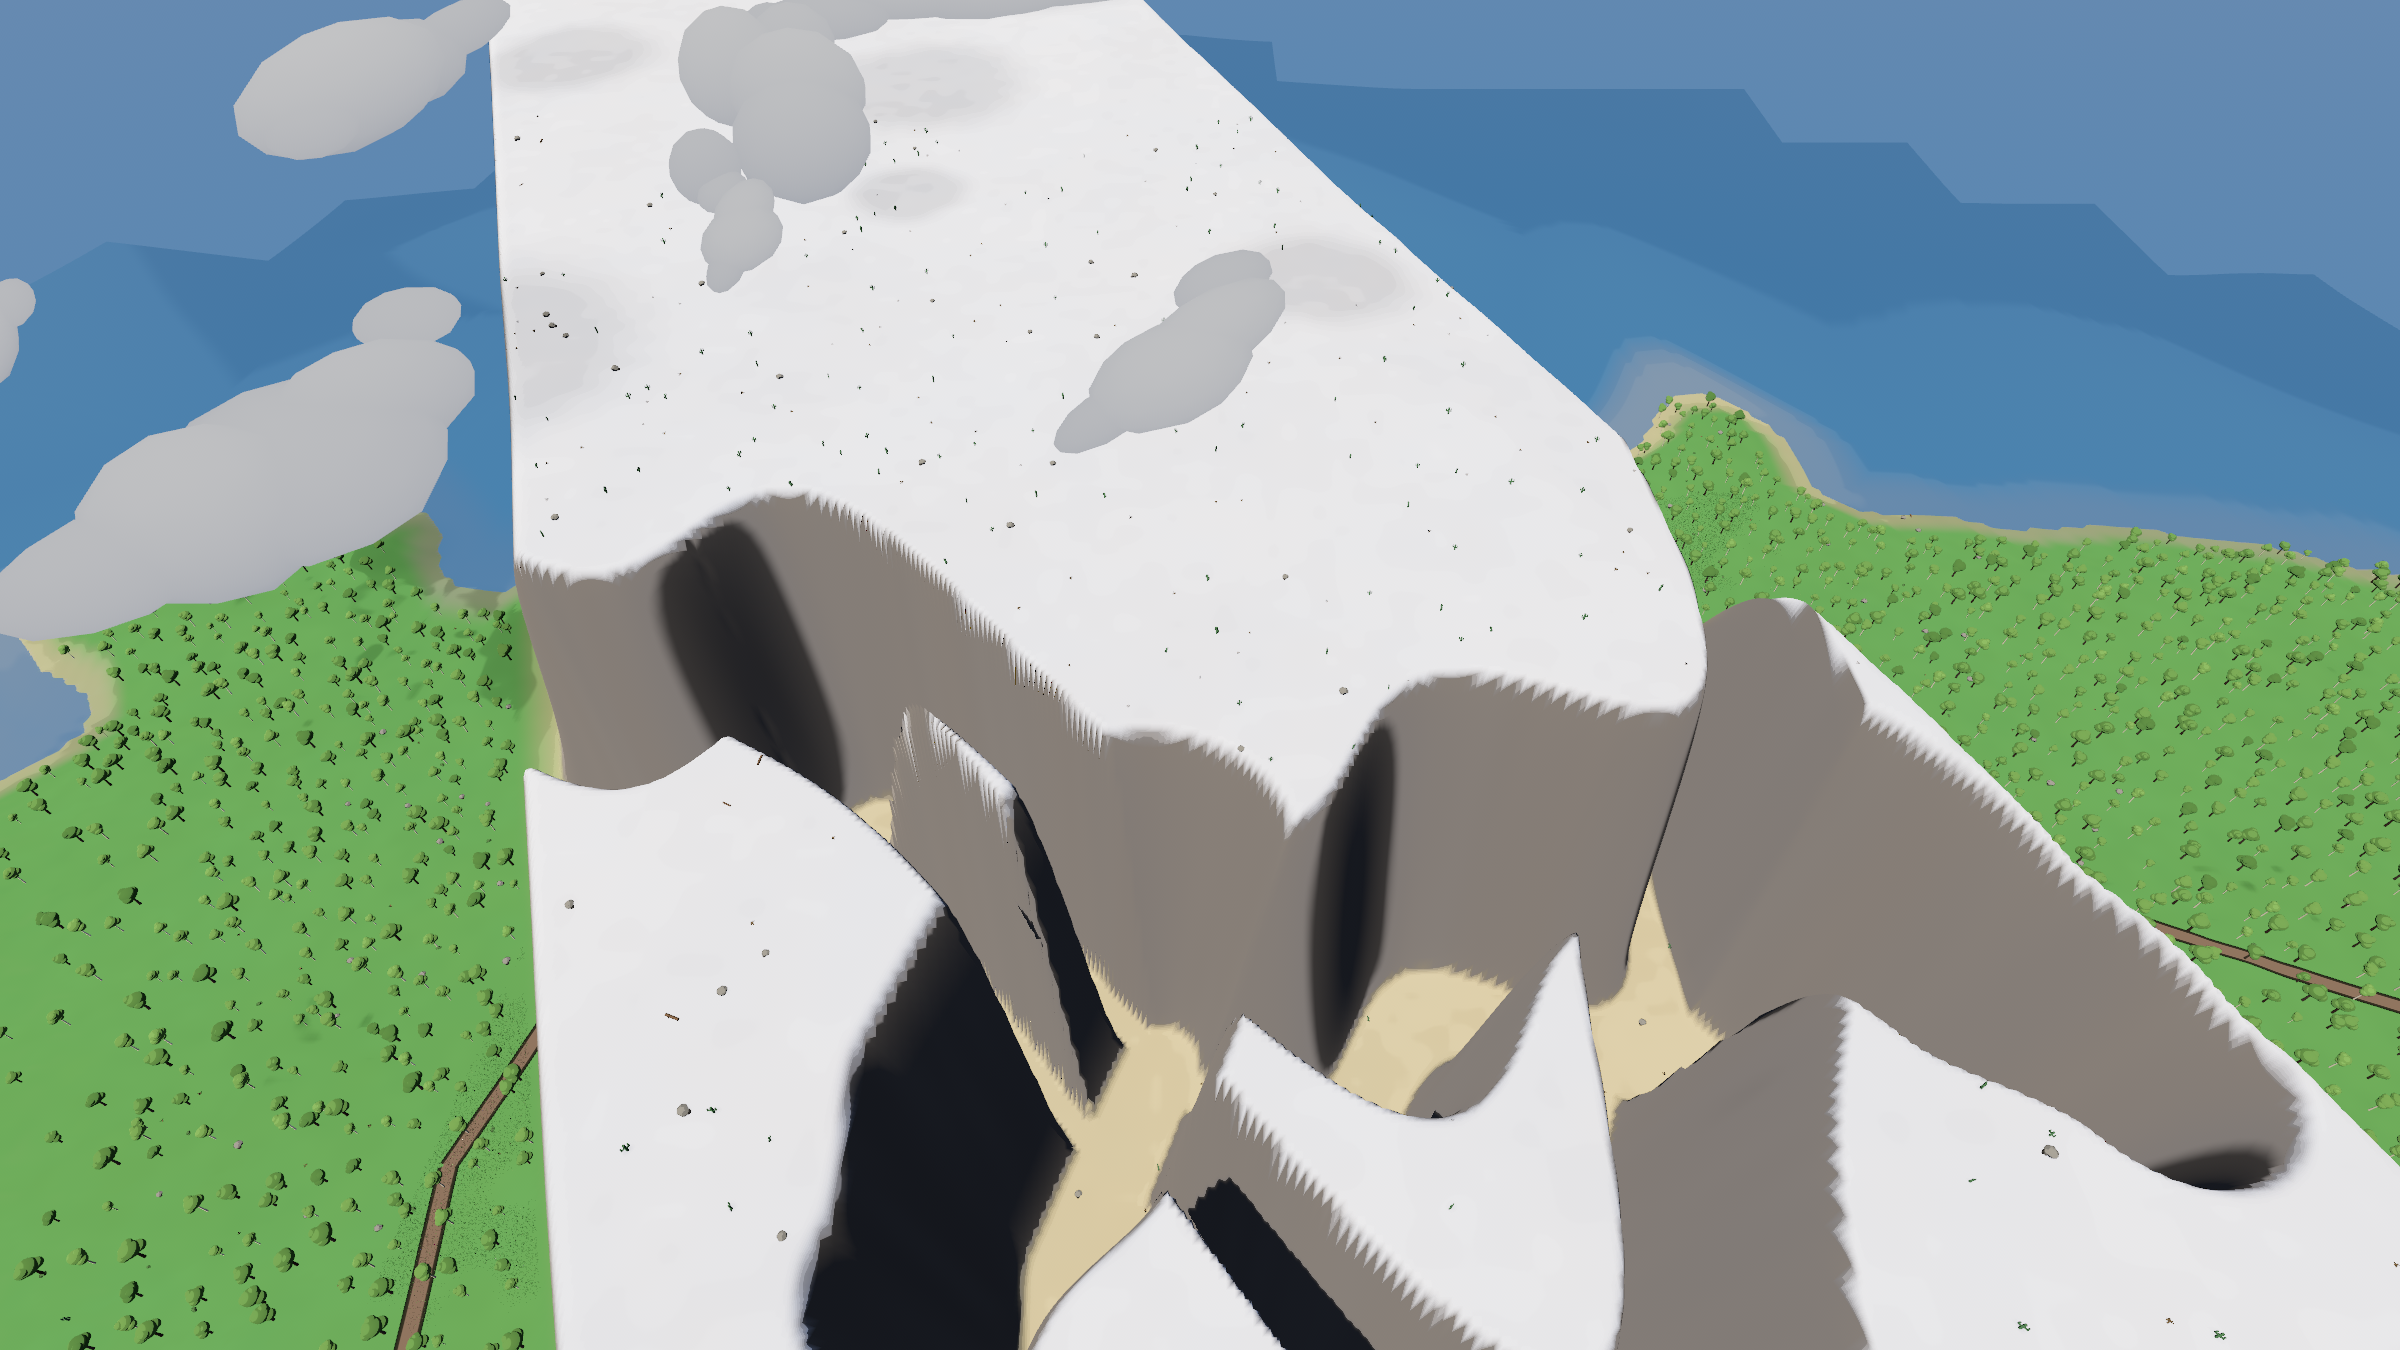
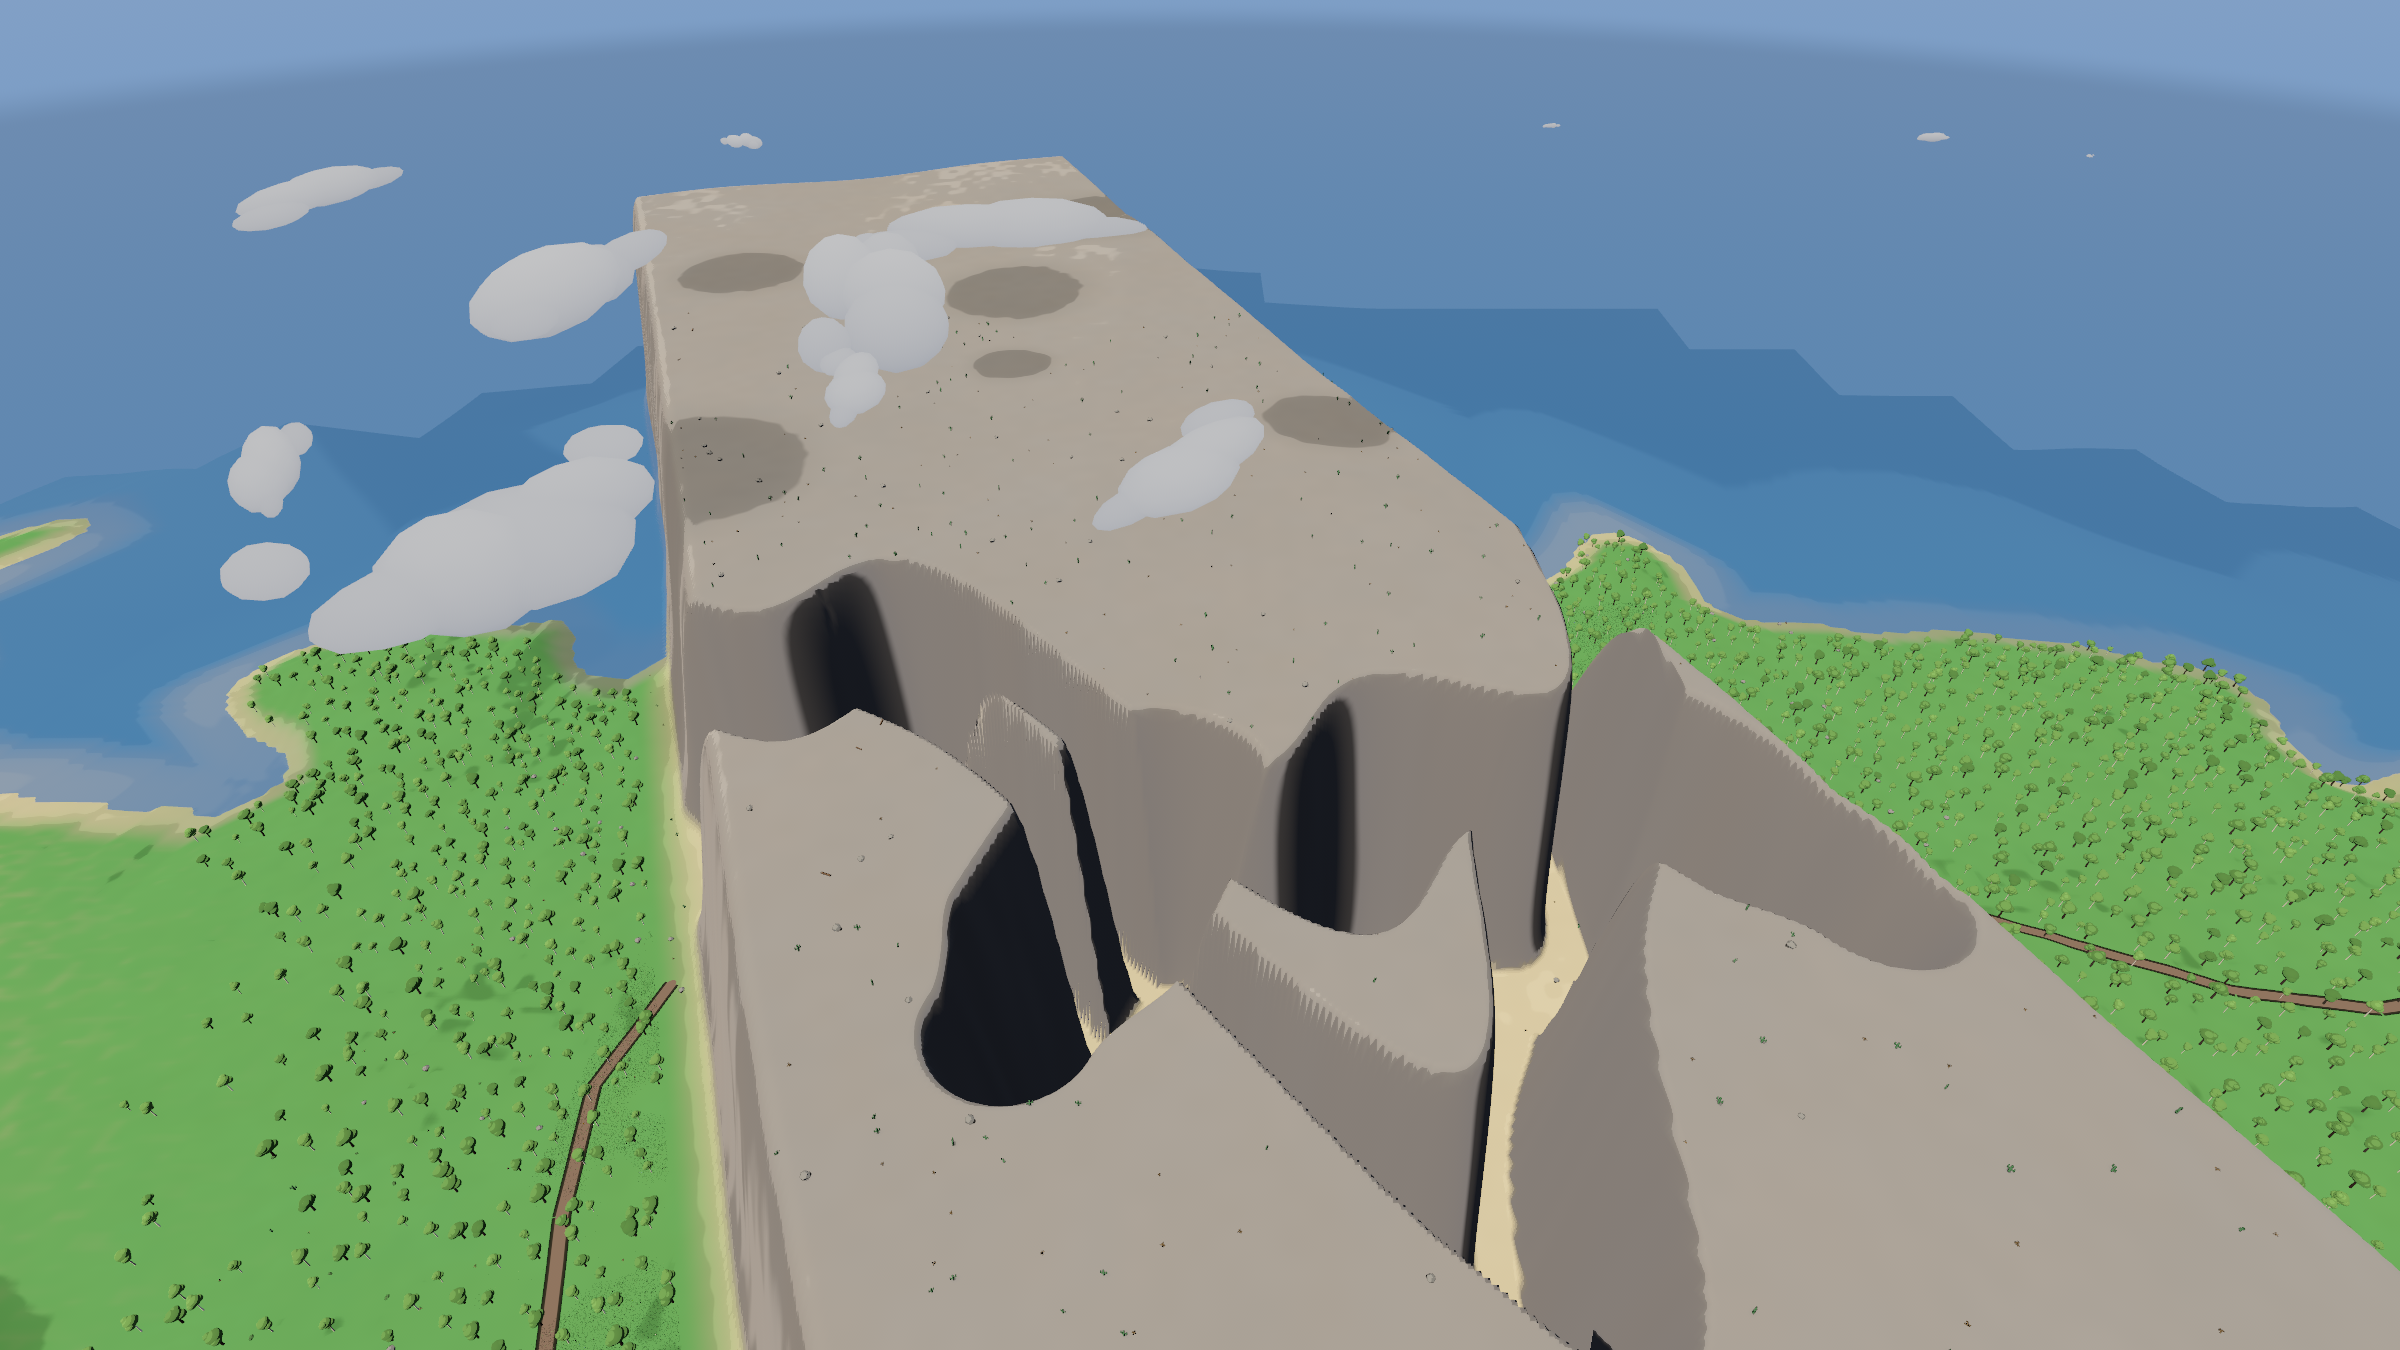
Strip the snow off the canyon massif
Its top stands 170 m over the plain and the snow line is 165, so it cleared the
line by five metres and wore a white cap - a snow-capped mesa in the middle of a
desert, and the most prominent thing in that country once the wall was lengthened
to reach the sea.

The snow line's own note says what is wrong with that: snow is meant to mean THE
mountain, the one landmark you navigate by, and nothing else in the world is
supposed to reach one. The canyon is a different landform with a different job,
and world::pass says in its first paragraph that its walls strip to bare rock.

Asked of the canyon rather than by moving the snow line, which would have taken
the cap off the great mountain too. pass::lift stops being test-only to answer
it; `stands` settles most of the world with one comparison, so it costs nothing
away from the massif.

Caught by looking, and nearly missed by not: the first build of this failed with
two errors - lift was #[cfg(test)], so the test build was fine and the game build
was not - and I read the error COUNT as a success and photographed a stale
binary that still had the snow on it.

diff --git a/src/world/biome.rs b/src/world/biome.rs
@@ -174,6 +174,25 @@ pub fn surface_color(
     let cap_outside = smoothstep(SNOWLINE - 30.0, SNOWLINE + 20.0, height);
     let cap_inside = smoothstep(snowline - 30.0, snowline + 20.0, height);
     let cap = cap_outside + (cap_inside - cap_outside) * into;
+
+    // BUT NOT ON THE CANYON MASSIF.
+    //
+    // Its top stands 170 m over the plain and the snow line is 165, so it cleared
+    // the line by five metres and wore a white cap - a snow-capped mesa in the
+    // middle of a desert, and the most prominent thing in that whole country once
+    // the wall was lengthened to reach the sea.
+    //
+    // The snow line's own note says what is wrong with that: snow is meant to mean
+    // THE mountain, the one landmark you navigate by, and nothing else in the world
+    // is supposed to reach one. The canyon is a different landform with a different
+    // job - it is the gate that closes the road east - and `world::pass` says in its
+    // first paragraph that its walls strip to bare rock.
+    //
+    // Asked of the canyon itself rather than by moving the snow line, which would
+    // have taken the cap off the mountain too. `pass::stands` answers most of the
+    // world with one comparison, so this costs nothing away from the massif.
+    let bare = (crate::world::pass::lift(at) / 40.0).clamp(0.0, 1.0);
+    let cap = cap * (1.0 - bare);
     let capped = above_treeline.lerp(p.snow, cap);
 
     let mut color = if height >= SEA_LEVEL { capped } else { underwater };

diff --git a/src/world/pass.rs b/src/world/pass.rs
@@ -279,10 +279,13 @@ fn stands(at: Vec2) -> (f32, f32, f32) {
 
 /// What the massif adds to the ground here, in metres. Only ever ADDS.
 ///
-/// The game itself goes through [`shape`]; this is the bare rock alone, and it is
-/// the tests' own instrument.
-#[cfg(test)]
-fn lift(at: Vec2) -> f32 {
+/// The game itself goes through [`shape`]; this is the bare rock alone.
+///
+/// No longer test-only. `biome::surface_color` asks it whether the ground it is
+/// painting belongs to the massif, because the massif must not wear the snow cap -
+/// snow is meant to mean THE mountain, and this is a desert mesa. `stands` answers
+/// most of the world with a single comparison, so asking costs nothing off it.
+pub fn lift(at: Vec2) -> f32 {
     stands(at).0
 }
 

diff --git a/codex-suggestions/CODEX_REVIEW_2026-08-29_1314.md b/codex-suggestions/CODEX_REVIEW_2026-08-29_1314.md
@@ -1,0 +1,38 @@
+# Codex review — guild landmark, route fixes, bridge joins, and canyon gate
+
+Reviewed commits: `82cb7d6` and `61b0c83`  
+Review basis: read-only source/diff inspection plus the current city-entrance and canyon evidence images
+
+## Outcome
+
+No blocking concern found.
+
+### V5 guild landmark: complete
+
+The current `city_entrance.png` now has an unmistakable dominant vertical anchor. The guild tower wins the skyline, has negative sky around it, and differs from the surrounding extruded office masses by tapering into belfry/lantern/spire stages. This closes the original V5 finding.
+
+The remaining city issues visible in the same frame—large unoccupied ground and repeated ordinary blocks—are the already-recorded plot-occupation/repetition work, not a fault in the landmark change.
+
+Removing the identical circular settlement wall is also a reasonable adaptation now that settled ground provides the arrival edge. A perfect radius-matched ring repeated at every site would expose the generator more than it would add identity.
+
+### Road and bridge corrections: sound
+
+- City-bound country roads taking city paving removes the brown track through the plaza.
+- Road shoulders sampling the actual ground color is the right boundary contract; the road now meets whatever surface is present instead of guessing a universal verge color.
+- Penalizing sand/snow during route search fixes the cause rather than forcing the renderer to paint an implausible dirt track over those surfaces.
+- `arch_run` uses ceiling division so spacing cannot exceed the authored span length. The exhaustive length test directly guards the photographed daylight-at-every-pier failure.
+
+### Canyon gate: structurally convincing; visual sign-off needs player-height evidence
+
+Extending the massif until both ends meet water makes the “must use the canyon” claim real, and the revised guard measures relative to the wall rather than stopping at a stale fixed distance. Narrowing the floor from 52 m to 38 m still preserves the traffic clearance already guarded by tests.
+
+The current `canyon.png` is a useful geographic proof, but its high oblique viewpoint cannot answer the experiential claim: whether the mouths read as the only passage, whether the walls feel close from the follow camera, and whether the heightfield edge combing is noticeable while walking.
+
+Recommended evidence before calling the visual portion final:
+
+1. A player-height western-mouth shot facing into the canyon.
+2. A player-height interior shot at the narrowest/windiest turn.
+3. A player-height eastern-mouth shot looking back.
+4. Ideally a short slow walk/orbit through the slot to catch temporal shimmer or wall-edge artifacts that a still hides.
+
+This is an evidence request, not a request to change the canyon again. The topology and routing claims are well supported by the commit.
